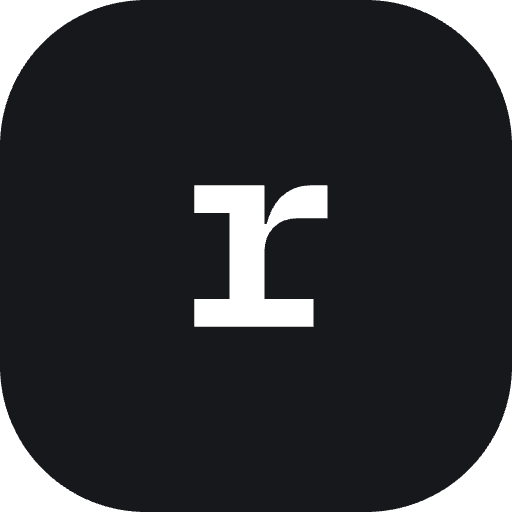
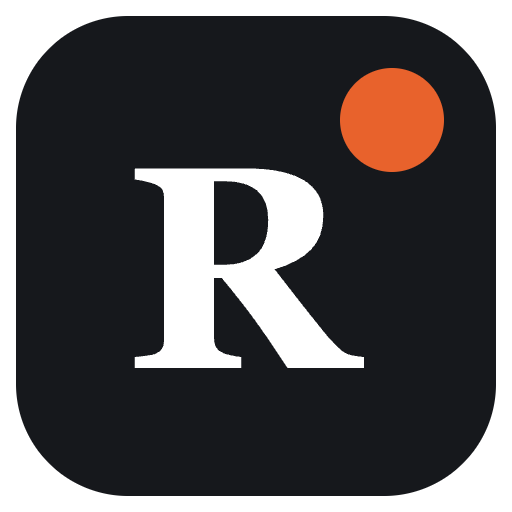
Rondo LP: faviconを公式アイコン(rondo管理画面の案B=R+橙衛星ドット・本人裁定08-01)へ差し替え(SVG主+PNG3種再生成)+ヒーローカルーセルに「ヒートマップ」スライド追加(ファネル分析の隣・実LP重ね描きの縮小再現・5枚化)

Changed region(s): [[0.0, 0.0, 1.0, 1.0], [0.25, 0.3125, 0.7188, 0.7188], [0.6562, 0.125, 0.875, 0.3438]]

diff --git a/public/rondo.html b/public/rondo.html
@@ -8,6 +8,7 @@
 <meta property="og:title" content="Rondo | AIとともに運用。自分で所有・カスタマイズする次世代マーケティングOS">
 <meta property="og:description" content="月額SaaSを借りるのではなく、マーケティング基盤を所有する。CRM・セグメント配信・自動見張りまで同梱、Claude Codeで作り込む買い切り¥4,980。">
 <meta property="og:type" content="website">
+<link rel="icon" href="/rondo-assets/rondo-icon.svg" type="image/svg+xml">
 <link rel="icon" type="image/png" sizes="32x32" href="/rondo-assets/rondo-icon-32.png">
 <link rel="icon" type="image/png" sizes="512x512" href="/rondo-assets/rondo-icon-512.png">
 <link rel="apple-touch-icon" sizes="180x180" href="/rondo-assets/rondo-icon-180.png">
@@ -183,6 +184,21 @@
   .cal-ev{font-size:9px;font-weight:600;line-height:1.7;border-radius:4px;padding:0 4px;white-space:nowrap;overflow:hidden;text-overflow:ellipsis;min-width:0}
   .cal-ev.done{color:var(--note);background:rgba(123,131,143,.14)}
   .cal-ev.sked{color:var(--accent);background:var(--accent-soft)}
+  /* ヒートマップスライド(実LPへの重ね描きの縮小再現。熱色はheat.jsオーバーレイの実写色) */
+  .hm-page{position:relative;background:#fff;border:1px solid var(--hair);border-radius:10px;padding:16px 14px;overflow:hidden}
+  .hm-mast{display:flex;align-items:center;justify-content:space-between;margin-bottom:14px}
+  .hm-logo{display:flex;align-items:center;gap:5px;font-size:10px;font-weight:700}
+  .hm-logo i{width:12px;height:12px;border-radius:4px;background:var(--ink);display:inline-block}
+  .hm-mini{font-size:9px;color:var(--note)}
+  .hm-line{height:9px;border-radius:5px;background:#E3E7EF;margin:7px auto 0}
+  .hm-cta{display:block;width:max-content;margin:13px auto 2px;background:var(--ink);color:#fff;
+    font-size:10.5px;font-weight:600;border-radius:999px;padding:6px 16px}
+  .hm-blob{position:absolute;border-radius:50%;pointer-events:none;
+    background:radial-gradient(circle, rgba(214,69,27,.5) 0%, rgba(232,98,44,.32) 42%, rgba(255,171,64,.16) 66%, transparent 76%)}
+  .hm-bar{display:flex;align-items:center;gap:9px;justify-content:center;width:max-content;max-width:100%;
+    margin:12px auto 0;background:#17181C;border-radius:999px;padding:6px 14px;font-size:10.5px;color:rgba(255,255,255,.72);white-space:nowrap}
+  .hm-bar .on{background:#fff;color:#17181C;border-radius:999px;padding:2px 9px;font-weight:600}
+  .hm-bar .sep{width:1px;height:11px;background:rgba(255,255,255,.25);flex:none}
   .car-tabs{display:flex;flex-wrap:wrap;justify-content:center;gap:6px;margin-top:14px}
   .car-tab{font-family:var(--sans);font-size:12.5px;font-weight:600;color:var(--dim);cursor:pointer;
            background:rgba(255,255,255,.55);border:1px solid var(--hair);border-radius:999px;
@@ -518,6 +534,31 @@
                 </div>
               </div>
 
+              <div class="car-slide" id="car-ph" role="tabpanel" aria-label="ヒートマップの画面イメージ">
+                <div class="sh-head">ヒートマップ <span class="sub">販売LP・実LPに重ね描き</span></div>
+                <div class="hm-page">
+                  <div class="hm-mast">
+                    <span class="hm-logo"><i></i>Rondo</span>
+                    <span class="hm-mini">事前登録で10%オフ</span>
+                  </div>
+                  <div class="hm-line" style="width:72%"></div>
+                  <div class="hm-line" style="width:58%"></div>
+                  <div class="hm-line" style="width:40%;height:6px;background:#EDF0F6;margin-top:10px"></div>
+                  <span class="hm-cta">事前登録で10%オフを受け取る</span>
+                  <div class="hm-line" style="width:30%;height:6px;background:#EDF0F6"></div>
+                  <div style="border-top:1px solid #EDF0F6;margin-top:14px;padding-top:4px">
+                    <div class="hm-line" style="width:52%"></div>
+                    <div class="hm-line" style="width:64%;height:6px;background:#EDF0F6"></div>
+                    <div class="hm-line" style="width:57%;height:6px;background:#EDF0F6"></div>
+                  </div>
+                  <i class="hm-blob" style="width:110px;height:110px;left:50%;top:96px;transform:translateX(-50%)"></i>
+                  <i class="hm-blob" style="width:64px;height:64px;left:20%;top:26px"></i>
+                  <i class="hm-blob" style="width:44px;height:44px;right:8%;top:4px"></i>
+                  <i class="hm-blob" style="width:54px;height:54px;left:34%;bottom:-2px"></i>
+                </div>
+                <div class="hm-bar"><span class="on">クリック</span><span>スクロール到達</span><span>アテンション</span><span class="sep"></span><span>PC</span></div>
+              </div>
+
               <div class="car-slide" id="car-p1" role="tabpanel" aria-label="配信カレンダーの画面イメージ">
                 <div class="sh-head">カレンダー <span class="sub">2026年8月</span></div>
                 <div class="crm-kpis">
@@ -603,6 +644,7 @@
         </div>
         <div class="car-tabs" role="tablist" aria-label="表示する管理画面">
           <button class="car-tab" type="button" role="tab" aria-selected="true" aria-controls="car-p0">ファネル分析</button>
+          <button class="car-tab" type="button" role="tab" aria-selected="false" aria-controls="car-ph">ヒートマップ</button>
           <button class="car-tab" type="button" role="tab" aria-selected="false" aria-controls="car-p1">カレンダー</button>
           <button class="car-tab" type="button" role="tab" aria-selected="false" aria-controls="car-p2">顧客</button>
           <button class="car-tab" type="button" role="tab" aria-selected="false" aria-controls="car-p3">LP分析</button>
